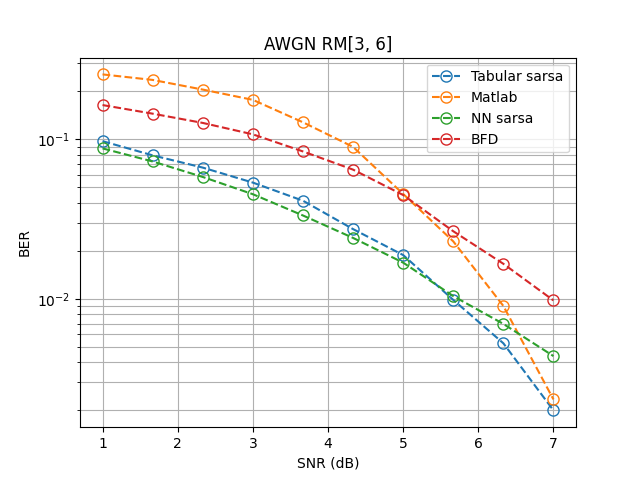
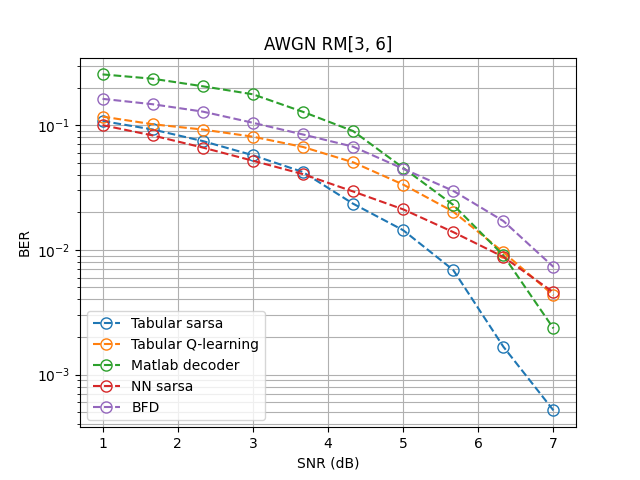
April 4th
Added Q-learning

Changed region(s): [[0.0625, 0.125, 0.9062, 0.9062], [0.0625, 0.75, 0.0938, 0.8125], [0.0625, 0.5938, 0.0938, 0.6562]]

diff --git a/main.py b/main.py
@@ -4,6 +4,7 @@ import channel
 import codes
 import sarsa
 import sarsa_param
+import q_learning
 import matplotlib.pyplot as plt
 import os
 from scipy.io import loadmat
@@ -43,12 +44,15 @@ def fit(agent, channel, noise, type=None):
     returns:    optimal q table if type == tabular, o/w weights of NN if type == param (these parameters are also stored
                 as class variables of env).
     """
-    env = BitFlippingEnv(agent, channel, noise)
     if type == 'tabular':
-        Q = sarsa.train(env, int(3e5), 0.1)
-        return Q, env
+        env_sarsa = BitFlippingEnv(agent, channel, noise)
+        env_qlearn = BitFlippingEnv(agent, channel, noise)
+        Q_sarsa = sarsa.train(env_sarsa, int(9e5), 1)
+        Q_qlearn = q_learning.train(env_qlearn, int(9e5), 1)
+        return Q_sarsa, Q_qlearn, env_sarsa, env_qlearn
     elif type == 'param':
-        w, v = sarsa_param.train(env, int(3e3), 0.1)
+        env = BitFlippingEnv(agent, channel, noise)
+        w, v = sarsa_param.train(env, int(3e4), 0.1)
         return w, v, env
     else:
         raise ValueError("Invalid type. Specify type as tabular or param")
@@ -99,8 +103,9 @@ def BHC_BSC():
 
     # tabular setting
     agent_tabular = BCH_agent()
-    _, env_tab = fit(agent_tabular, channel, noise, type='tabular')
-    BER_tabular = eval(env_tab, channel, type='tabular')
+    _, _, env_sarsa, env_qlearn = fit(agent_tabular, channel, noise, type='tabular')
+    BER_tabular_sarsa = eval(env_sarsa, channel, type='tabular')
+    BER_tabular_qlearn = eval(env_qlearn, channel, type='tabular')
 
     # parameterized setting
     agent_param = BCH_agent()
@@ -121,7 +126,7 @@ def BHC_BSC():
     x_range = [1-x for x in dB_range]
 
     # plot results
-    plot_BER(x_range, BER_tabular, BER_param, bfd, bench, '1 - prob. error in BSC', name, figure_name)
+    plot_BER(x_range, BER_tabular_sarsa, BER_tabular_qlearn, BER_param, bfd, bench, '1 - prob. error in BSC', name, figure_name)
 
 ####################################################################################################################
 # 2. RM with BSC
@@ -138,12 +143,13 @@ def RM_BSC():
     figure_name = "BER_sarsa_" + code_type + "_" + code_label[0] + "_" + code_label[1] + "_" + channel + "_newreward"
 
     # tabular setting
-    agent_tabular = BCH_agent()
-    _, env_tab = fit(agent_tabular, channel, noise, type='tabular')
-    BER_tabular = eval(env_tab, channel, type='tabular')
+    agent_tabular = RM_agent(code_label)
+    _, _, env_sarsa, env_qlearn = fit(agent_tabular, channel, noise, type='tabular')
+    BER_tabular_sarsa = eval(env_sarsa, channel, type='tabular')
+    BER_tabular_qlearn = eval(env_qlearn, channel, type='tabular')
 
     # parameterized setting
-    agent_param = BCH_agent()
+    agent_param = RM_agent(code_label)
     _, _, env_param = fit(agent_param, channel, noise, type='param')
     BER_param = eval(env_param, channel, type='param')
 
@@ -161,7 +167,7 @@ def RM_BSC():
     x_range = [1-x for x in dB_range]
 
     # plot results
-    plot_BER(x_range, BER_tabular, BER_param, bench,bfd, '1 - prob. error in BSC', name, figure_name)
+    plot_BER(x_range, BER_tabular_sarsa, BER_tabular_qlearn, BER_param, bench,bfd, '1 - prob. error in BSC', name, figure_name)
 
 ####################################################################################################################
 # 4. BCH with AWGN
@@ -179,8 +185,9 @@ def BHC_AWGN():
 
     # tabular setting
     agent_tabular = BCH_agent()
-    _, env_tab = fit(agent_tabular, channel, noise, type='tabular')
-    BER_tabular = eval(env_tab, channel, type='tabular')
+    _, _, env_sarsa, env_qlearn = fit(agent_tabular, channel, noise, type='tabular')
+    BER_tabular_sarsa = eval(env_sarsa, channel, type='tabular')
+    BER_tabular_qlearn = eval(env_qlearn, channel, type='tabular')
 
     # parameterized setting
     agent_param = BCH_agent()
@@ -200,7 +207,7 @@ def BHC_AWGN():
     name = channel + " " + code_type + "[" + code_label[0] + ", " + code_label[1] + "]" 
 
     # plot results
-    plot_BER(dB_range, BER_tabular, BER_param, bfd, bench, 'SNR (dB)', name, figure_name)
+    plot_BER(dB_range, BER_tabular_sarsa, BER_tabular_qlearn, BER_param, bfd, bench, 'SNR (dB)', name, figure_name)
 
 ####################################################################################################################
 # 5. RM with AWGN
@@ -217,12 +224,13 @@ def RM_AWGN():
     figure_name = "BER_sarsa_" + code_type + "_" + code_label[0] + "_" + code_label[1] + "_" + channel + "_newreward"
 
     # tabular setting
-    agent_tabular = BCH_agent()
-    _, env_tab = fit(agent_tabular, channel, noise, type='tabular')
-    BER_tabular = eval(env_tab, channel, type='tabular')
+    agent_tabular = RM_agent(code_label)
+    _, _, env_sarsa, env_qlearn = fit(agent_tabular, channel, noise, type='tabular')
+    BER_tabular_sarsa = eval(env_sarsa, channel, type='tabular')
+    BER_tabular_qlearn = eval(env_qlearn, channel, type='tabular')
 
     # # parameterized setting
-    agent_param = BCH_agent()
+    agent_param = RM_agent(code_label)
     _, _, env_param = fit(agent_param, channel, noise, type='param')
     BER_param = eval(env_param, channel, type='param')
 
@@ -239,7 +247,7 @@ def RM_AWGN():
     name = channel + " " + code_type + "[" + code_label[0] + ", " + code_label[1] + "]" 
 
     # plot results
-    plot_BER(dB_range, BER_tabular, BER_param, bench, bfd, 'SNR (dB)', name, figure_name)
+    plot_BER(dB_range, BER_tabular_sarsa, BER_tabular_qlearn, BER_param, bench, bfd, 'SNR (dB)', name, figure_name)
 
 if __name__ == "__main__":
     main()

diff --git a/q_learning.py b/q_learning.py
@@ -29,32 +29,22 @@ def train(env, num_episodes, alpha, mov_avg=1000, gamma=0.95, EbN0=1):
             sys.stdout.flush()   
         
         state = env.reset()
-
-        action = epsilon_greedy(Q, state, nA, eps)
         total_reward = 0
         while True:
+            action = epsilon_greedy(Q, state, nA, eps)
             next_state, reward, done, _ = env.step(action)
             total_reward += reward
             if not done:
-                next_action = epsilon_greedy(Q, next_state, nA, eps)
-                td_error = alpha*(reward + gamma*Q[next_state][next_action] - Q[state][action])
+                a_prime = np.argmax(Q[next_state])
+                td_error = alpha*(reward + gamma*Q[next_state][a_prime] - Q[state][action])
                 Q[state][action] += td_error
                 state = next_state
-                action = next_action
             if done:
-                td_error = alpha*(reward - Q[state][action])
-                Q[state][action] += td_error
                 tmp_scores.append(total_reward)
                 break
         if (i_episode % mov_avg == 0):
             avg_scores.append(np.mean(tmp_scores))
     
-    # plot performance      
-    # plt.plot(np.linspace(0,num_episodes,len(avg_scores), endpoint=False), np.asarray(avg_scores))
-    # plt.xlabel('Episode Number')
-    # plt.ylabel('Average Reward (Over Next %d Episodes)' % mov_avg)
-    # plt.savefig('./figs/reward_fun_sarsa_RM_3_6.png')
-    # plt.show()
     print(('Best Average Reward over %d Episodes: ' % mov_avg), np.max(avg_scores))   
     env.Q = Q 
     return Q

diff --git a/sarsa_param.py b/sarsa_param.py
@@ -12,14 +12,17 @@ def epsilon_greedy(Q, state, nA, eps):
     
 def feature_vector_nn(state, a, n_features):
     x = np.zeros(n_features) # feature vector
-    syndrome, residual = state
+    # syndrome, residual = state
+    # x[:len(syndrome)] = syndrome  # fill first bits with syndrome
+    # x[len(syndrome)] = residual # this is the 'residual' term
+    # x[len(syndrome) + 1] = a
+    syndrome = state
     x[:len(syndrome)] = syndrome  # fill first bits with syndrome
-    x[len(syndrome)] = residual # this is the 'residual' term
-    x[len(syndrome) + 1] = a
+    x[len(syndrome)] = a # this is the 'residual' term
     x[-1] = 1 # bias
     return x
 
-def train(env, num_episodes, alpha, mov_avg=1000, gamma=0.99, EbN0=1):
+def train(env, num_episodes, alpha, mov_avg=1000, gamma=0.95, EbN0=1):
     ## Dimension of NN ##
     # y = V*h(Wx) where
     # - V is nxk
@@ -27,7 +30,7 @@ def train(env, num_episodes, alpha, mov_avg=1000, gamma=0.99, EbN0=1):
     # - d is dx1
     n = env.n
     k = 32
-    d = env.m + 3
+    d = env.m + 2
 
     # weights
     w = torch.randn(k, d, requires_grad=True)
@@ -114,7 +117,7 @@ def test(env, num_runs, w, v, EbN0=0.1):
     BER = 0
     env.set_noise(EbN0)
     max_iters = 10
-    d = 3 + env.m
+    d = 2 + env.m
     for iter in range(num_runs):
         state = env.reset()
         function = lambda s, a: v@torch.relu(torch.from_numpy(w@feature_vector_nn(s, a, d))).numpy()

diff --git a/utils.py b/utils.py
@@ -3,9 +3,10 @@ import matplotlib.pyplot as plt
 from scipy.io import loadmat
 
 
-def plot_BER(x_vars, y_tab, y_param,  bench, bfd, units, title, figure_name):
-    plt.semilogy(x_vars, y_tab, marker='o', fillstyle='none', linestyle='--', linewidth=1.5, markersize=8, label='Tabular sarsa')
-    plt.semilogy(x_vars, bench, marker='o', fillstyle='none', linestyle='--', linewidth=1.5, markersize=8, label='Matlab')
+def plot_BER(x_vars, y_sarsa, y_qlearn, y_param,  bench, bfd, units, title, figure_name):
+    plt.semilogy(x_vars, y_sarsa, marker='o', fillstyle='none', linestyle='--', linewidth=1.5, markersize=8, label='Tabular sarsa')
+    plt.semilogy(x_vars, y_qlearn, marker='o', fillstyle='none', linestyle='--', linewidth=1.5, markersize=8, label='Tabular Q-learning')
+    plt.semilogy(x_vars, bench, marker='o', fillstyle='none', linestyle='--', linewidth=1.5, markersize=8, label='Matlab decoder')
     plt.semilogy(x_vars, y_param, marker='o', fillstyle='none', linestyle='--', linewidth=1.5, markersize=8, label='NN sarsa')
     plt.semilogy(x_vars, bfd, marker='o', fillstyle='none', linestyle='--', linewidth=1.5, markersize=8, label='BFD')
     plt.xlabel(units)

diff --git a/bf_env.py b/bf_env.py
@@ -30,9 +30,10 @@ class BitFlippingEnv(gym.Env):
         else:
             self.z = self.trx_message()
 
-        self.residual = np.sum(self.codeword)
+        # self.residual = np.sum(self.codeword)
         self.num_actions = 0
-        self.state = (tuple(self.code.syndrome(self.z)), self.residual)
+        # self.state = (tuple(self.code.syndrome(self.z)), self.residual)
+        self.state = tuple(self.code.syndrome(self.z))
         if self.channel_type == 'BSC':
             llr = np.log((1 - self.noise) / self.noise) * self.z
         # elif self.channel_type == 'AWGN':
@@ -77,7 +78,8 @@ class BitFlippingEnv(gym.Env):
         if np.all(self.state == 0):
             reward += 1
 
-        return (tuple(self.state), self.residual), reward, done, None
+        return tuple(self.state), reward, done, None
+        # return (tuple(self.state), self.residual), reward, done, None
 
     def render(self, mode='console'):
         if mode != 'console':

diff --git a/MATLAB/BFD_bench.m b/MATLAB/BFD_bench.m
@@ -1,7 +1,7 @@
 clear; close all; clc
 run_bch = true;
 run_rm = true;
-channelType = "AWGN";
+channelType = "BSC";
 
 load('../Hmat/BCH_63_45_std.mat', 'H')
 %% BCH
